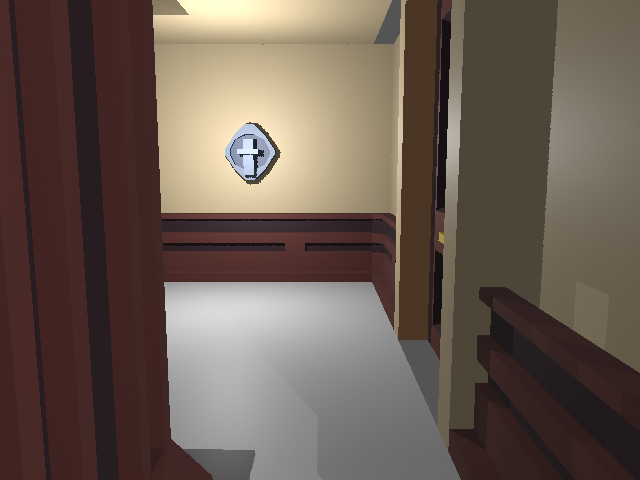
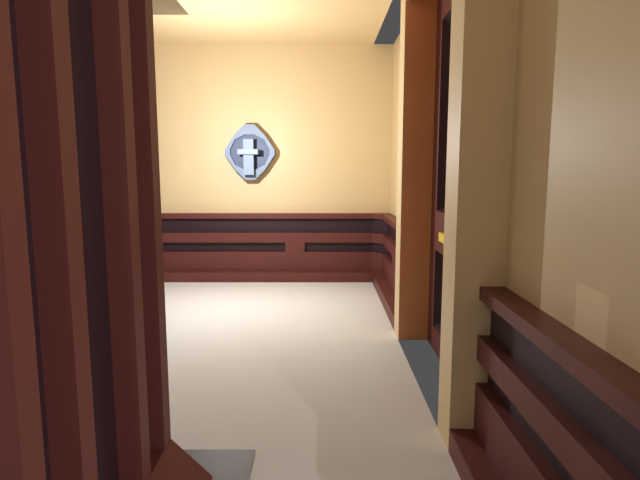
added working masks !

diff --git a/lib/scene.rb b/lib/scene.rb
@@ -28,6 +28,7 @@ class GameScene < Scene
     def load_map(dirname)
         load_minimap(dirname)
         load_json(dirname)
+        load_masks(dirname)
     end
     
     def load_minimap(dirname)
@@ -67,6 +68,22 @@ class GameScene < Scene
         end
         
         @active_camera = @cameras.keys.first
+    end
+
+    def load_masks(dirname)
+        @masks = []
+        path = "scenes/#{dirname}/masks/masks.json"
+
+        return unless File.exist?(path)
+
+        data = JSON.parse(File.read(path))
+
+        data.each do |mask|
+            camera = mask['camera']
+            filename = "scenes/#{dirname}/masks/#{mask['image']}"
+            x, y, z = 0, 0, @cameras[camera].distance_from(mask['x'], mask['y'], mask['z'])
+            @cameras[camera].add_mask(filename, x, y, z)
+        end
     end
     
     def get_active_camera(hero)
@@ -149,21 +166,26 @@ class GameScene < Scene
         @hero.update(dt, @cameras[@active_camera])
         get_active_camera(@hero)
 
-        @window.caption = "Camera : #{@active_camera} | HERO : #{@hero.sprite.x.floor(2)}, #{@hero.sprite.y.floor(2)}, #{@hero.sprite.z.floor(2)}"
+        distance = @cameras[@active_camera].distance_from(@hero.sprite.x, @hero.sprite.y, @hero.sprite.z).floor(2)
+        @window.caption = "Camera : #{@active_camera} | HERO : #{@hero.sprite.x.floor(2)}, #{@hero.sprite.y.floor(2)}, #{@hero.sprite.z.floor(2)}, Distance camera : #{distance}"
     end
 
     def draw
         super
+        z_offset = 1000
         camera = @cameras[@active_camera] 
         camera.draw_background
-        Gosu.gl(1) do
+
+        hero_distance = camera.distance_from(@hero.sprite.x, @hero.sprite.y, @hero.sprite.z)
+        Gosu.gl(z_offset - hero_distance) do
             camera.opengl_setup
-            @hero.draw(@cameras[@active_camera])
+            @hero.draw(camera)
             if @debug
                 draw_debug_tiles
                 draw_gizmo
             end
         end
+        camera.draw_masks(z_offset)
         Gosu.scale(4, 4) { draw_minimap }        
     end
 end

diff --git a/lib/camera.rb b/lib/camera.rb
@@ -8,12 +8,24 @@ class Camera
         @background = Gosu::Image.new(bg_filename, retro: true)
         @debug_color = Gosu::Color.new(255, Gosu.random(0, 255).floor, Gosu.random(0, 255).floor, Gosu.random(0, 255).floor)
         @yaw = Math.atan2(@t_y - @y, @t_x - @x)
+        @masks = []
+    end
+
+    def add_mask(filename, x, y, z)
+        @masks.push Mask.new(filename, x, y, z)
     end
 
     def draw_background
         width = @window.fullscreen? ? Gosu.screen_width : @window.width
         scale = width.to_f / width
         @background.draw(0, 0, 0, scale, scale)
+    end
+
+    def distance_from(x, y, z)
+        dx = @x - x
+        dy = @y - y
+        dz = @z - z
+        Math.sqrt(dx*dx + dy*dy + dz*dz)
     end
 
     def opengl_setup
@@ -31,5 +43,9 @@ class Camera
         glMatrixMode(GL_MODELVIEW)
         glLoadIdentity
         gluLookAt(@x, @y, @z, @t_x, @t_y, @t_z, 0, 0, 1)
+    end
+
+    def draw_masks(offset_z)
+        @masks.each {|mask| mask.draw(offset_z)}
     end
 end

diff --git a/lib/mask.rb b/lib/mask.rb
@@ -1,0 +1,10 @@
+class Mask
+    def initialize(filename, x, y, z)
+        @image = Gosu::Image.new(filename, retro: true)
+        @x, @y, @z = x, y, z
+    end
+
+    def draw(offset_z)
+        @image.draw(@x, @y, offset_z - @z)
+    end
+end
